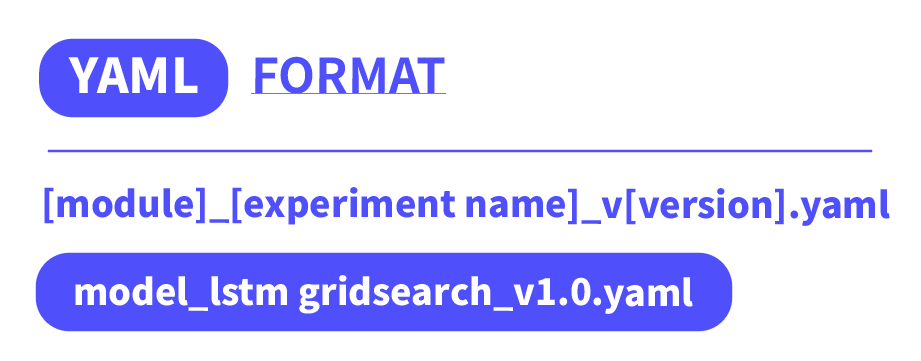
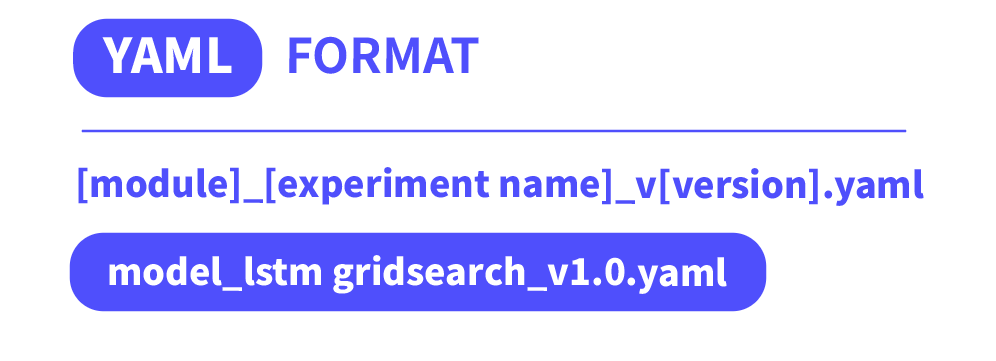
pic

Changed region(s): [[0.0304, 0.4571, 0.9729, 0.9446], [0.0304, 0.0305, 0.9121, 0.3657], [0.0304, 0.3961, 0.9425, 0.4266]]

diff --git a/README.md b/README.md
@@ -2,6 +2,8 @@
 
 🦆🦆🦆 A simple tool to manage yaml file by modules 🦆🦆🦆🦆
 
+<img src="https://github.com/IllgamhoDuck/yaml_configuration_manager/blob/main/images/structure.png?raw=true" width="400">
+
 ## 1. project name and path must be given
 - `project path` should be the root path of the project folder
 
@@ -23,7 +25,7 @@ config.delete_module('data')
 - In case of using yaml name directly the format should follow
   - **`(module)_(experiment name)_v(version).yaml`**
 
-<img src="https://github.com/IllgamhoDuck/yaml_configuration_manager/blob/main/images/yaml_format.png?raw=true" width="500">
+<img src="https://github.com/IllgamhoDuck/yaml_configuration_manager/blob/main/images/yaml_format.png?raw=true" width="450">
 
 ```python
 config.show('training')
